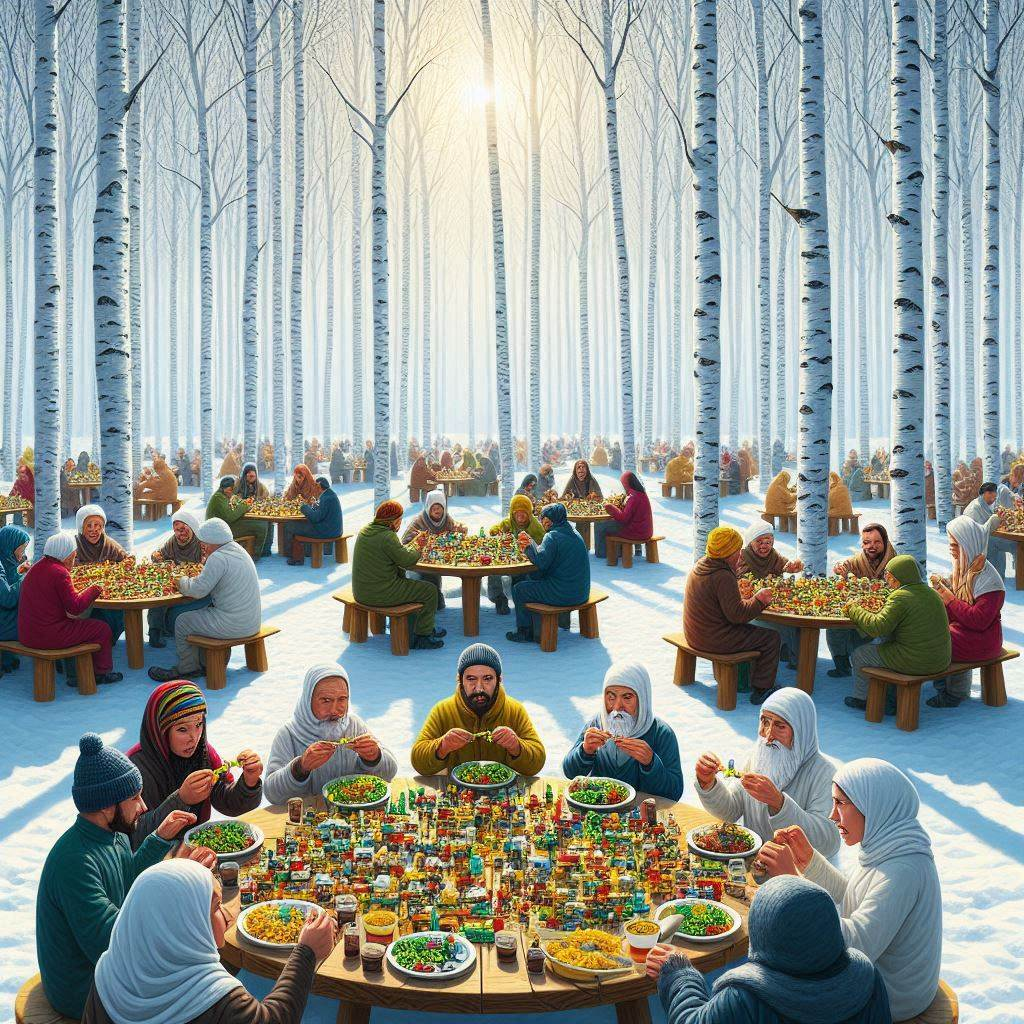
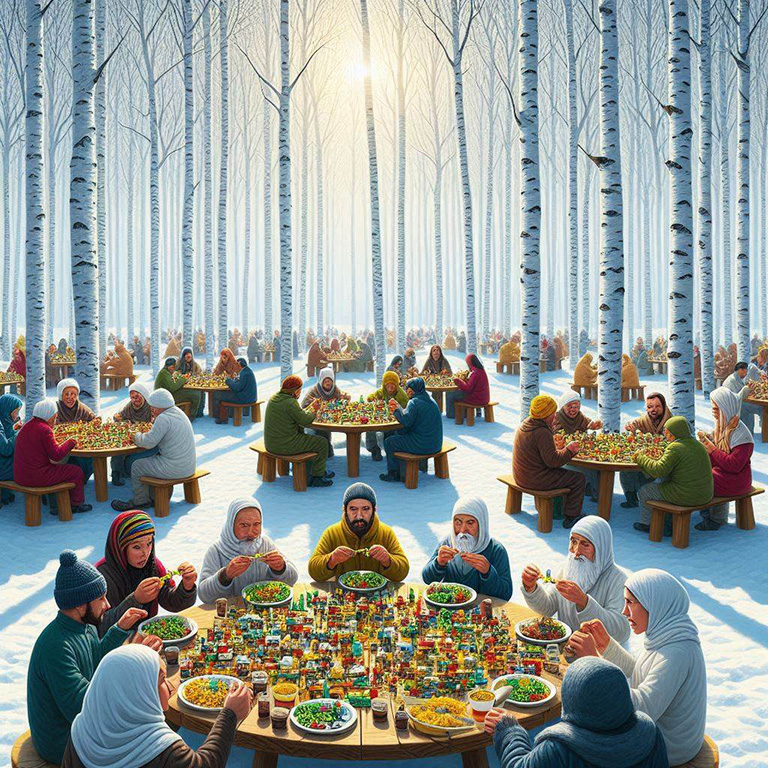
klar!

diff --git a/readme.md b/readme.md
@@ -15,7 +15,7 @@ Jag ändrade herotextens margin från rem till vw, och ändrade min bilds max-he
 Det tog 9 sekunder med 3g så inte jätte illa enligt mig. Det mesta var dock klart efter ca 2
 
 ### Bilder och Media
-
+Eftersom att bilden var vad som tog mest tid under förra punkten så drog jag ner min bilds ppi till 72
 
 ### Wave
 Allt utom 3 saker såg bra ut, en av de behövde jag bara ändra färgen på footern från en ljusgrön till en grå. Sedan så bara skapade den en vit färg under min hero text så det gick inte att fixa.
